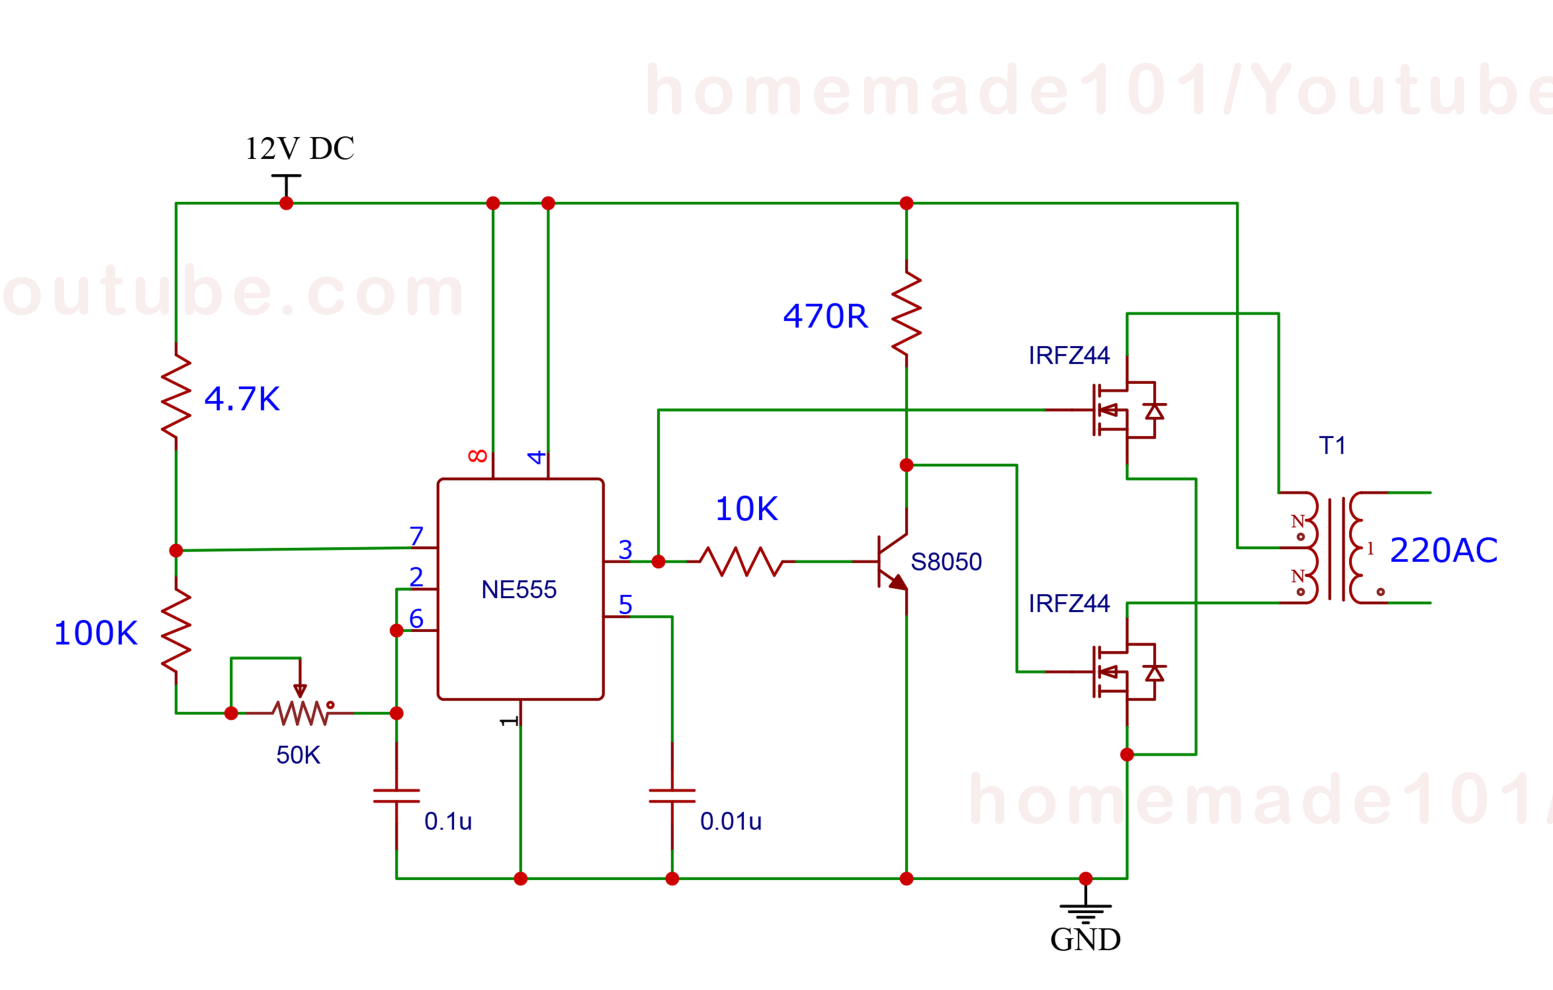
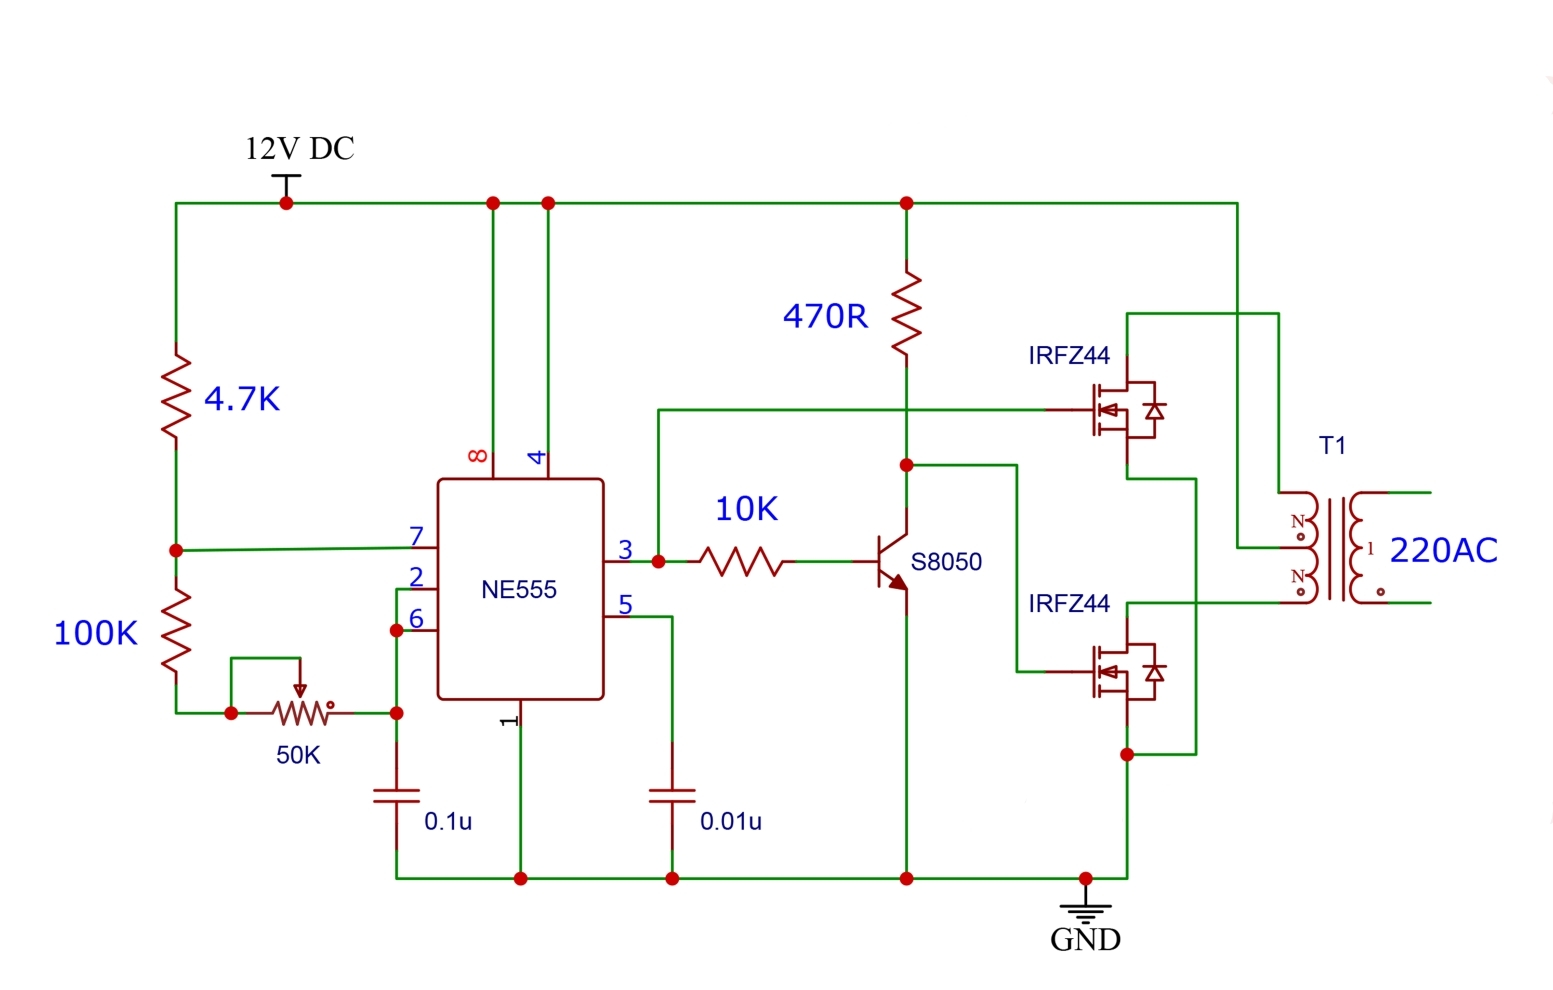
c

diff --git a/README.md b/README.md
@@ -42,6 +42,11 @@ Each component has a specific role in making the inverter work:
 - The resistors and capacitors set timing, stability, and gate/base current control.
 - The PCB or perfboard keeps the circuit physically organized and easier to assemble.
 
+## Updates
+
+- 2026-06-09: Updated the block diagram image (`diagram.png`) and the PCB photo (`Pasted image (2).png`).
+
+
 ## Block Diagram / Schematic
 
 ![Block diagram](diagram.png)
